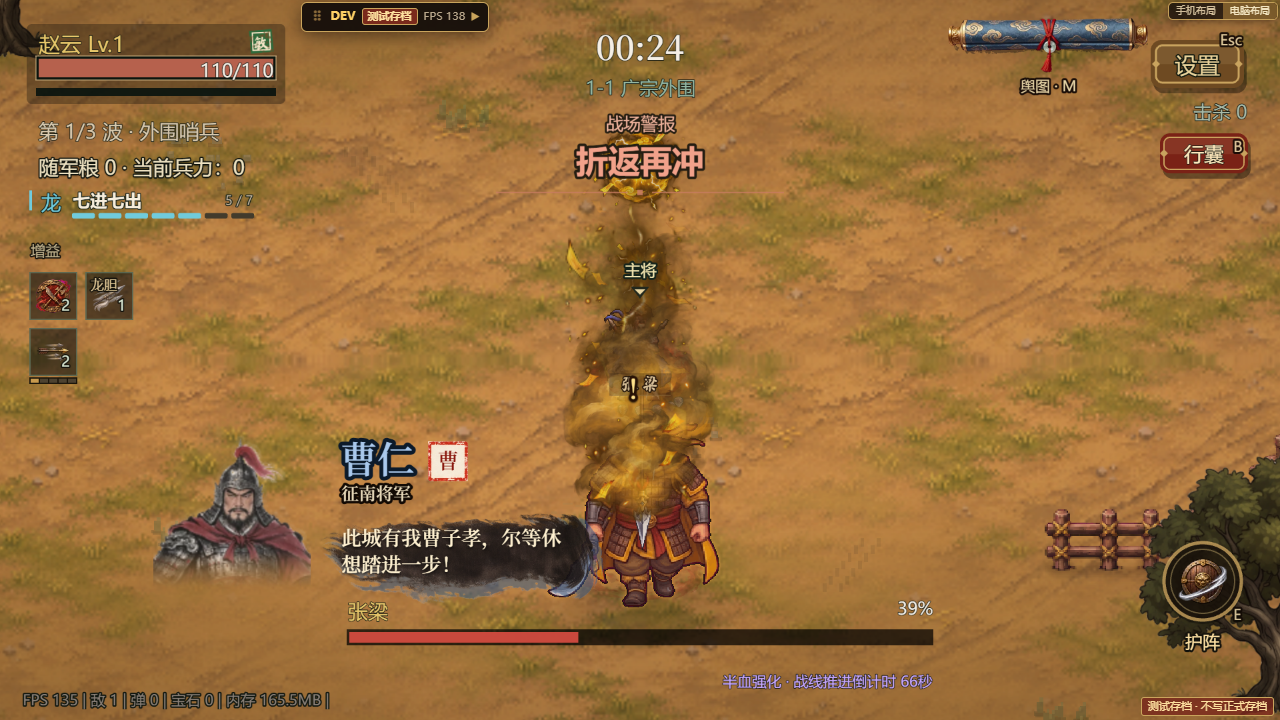
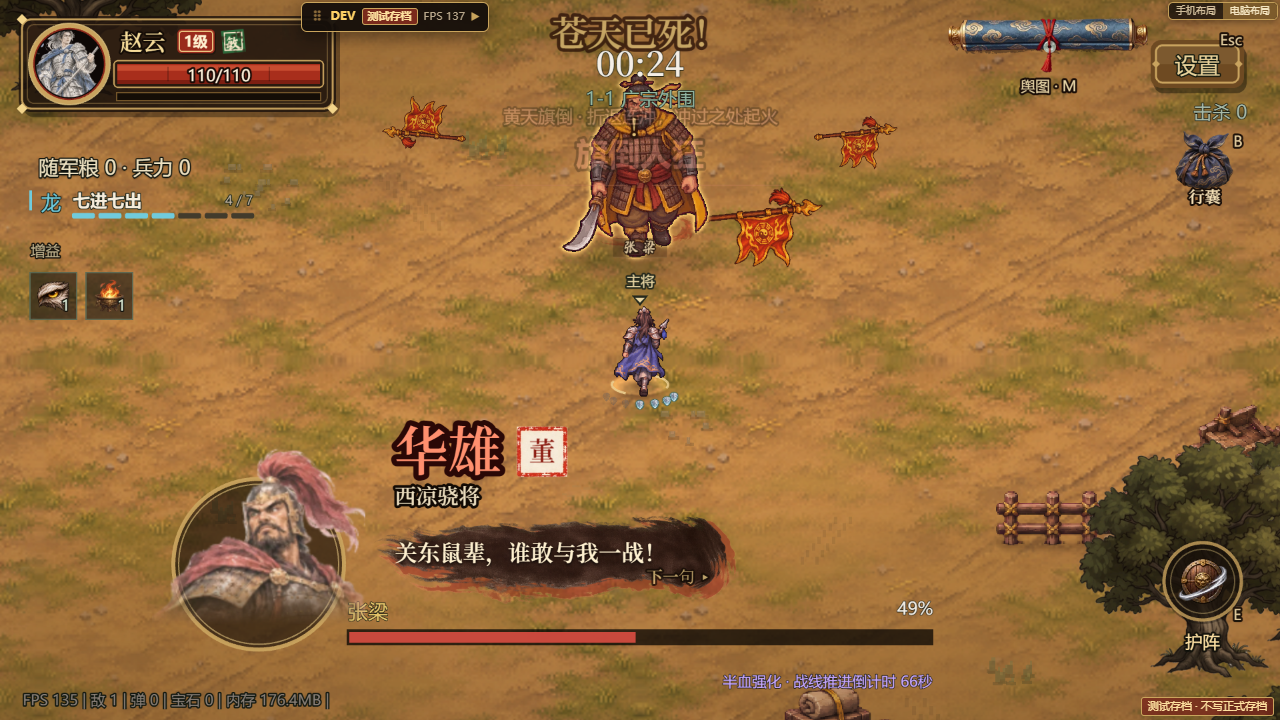
剧情对话卡打磨：战中台词逐字打出 + 下一句提示、首领登场大卡短停、关前军情对话排版 + 锦囊签（用户「剧情对话ui也可以改一下」）
- 战中台词卡：立绘下垫漆金圆托、名字我方金 / 敌方朱红、逐字打出（点卡片出全文）、排队时「下一句 ▸」、按字数延长停留；只一张不叠；不暂停
- 首领登场：大卡（立绘、名字、称号放大），停战斗约 1.5 秒后开打；说了就不再弹中间名号牌
- 关前军情：台词一次排开（圆形立绘 + 描金名字），提示做成朱漆「锦囊」签，只一个水墨「开战」按钮、跳过浅色；排不下退回翻页
- 中文后半角标点自动换全角；立绘头像左右渐隐
- test-story-barkcard 14/14；改前 / 改后对比图 assets/review/story-cards/

diff --git a/src/ui/StoryBarkCardStyles.ts b/src/ui/StoryBarkCardStyles.ts
@@ -53,7 +53,7 @@ const EXTRA_TITLES: Record<string, string> = { zhangliang: '人公将军', zhang
 export function titleOf(id: string | undefined): string { if (!id) return ''; return EXTRA_TITLES[id] ?? SURRENDER_DEFS.find(d => d.id === id)?.title ?? ''; }
 
 /** 头肩胸：从立绘取宽 64%、上 1%–40% 一块，画进小画布缓存成贴图（不用遮罩）；最下 22% 渐隐，像墨色化开 */
-function faceTexture(scene: Phaser.Scene, key: string, size: number): string | undefined {
+export function faceTexture(scene: Phaser.Scene, key: string, size: number): string | undefined {
   if (!scene.textures.exists(key)) return undefined;
   const tk = `barkface_${key}_${size}`; if (scene.textures.exists(tk)) return tk;
   const src = scene.textures.get(key).getSourceImage() as HTMLImageElement, can = scene.textures.createCanvas(tk, size, size); if (!can) return undefined;
@@ -61,45 +61,74 @@ function faceTexture(scene: Phaser.Scene, key: string, size: number): string | u
   g.drawImage(src, cx, cy, cw, ch, (size - dw) / 2, 0, dw, dh);
   // destination-in 会清掉填充区以外的像素：渐变要铺满整张（上 78% 全不透明、最下 22% 渐隐）
   const fade = g.createLinearGradient(0, 0, 0, size); fade.addColorStop(0, 'rgba(0,0,0,1)'); fade.addColorStop(.78, 'rgba(0,0,0,1)'); fade.addColorStop(1, 'rgba(0,0,0,0)');
-  g.globalCompositeOperation = 'destination-in'; g.fillStyle = fade; g.fillRect(0, 0, size, size); g.globalCompositeOperation = 'source-over';
+  g.globalCompositeOperation = 'destination-in'; g.fillStyle = fade; g.fillRect(0, 0, size, size);
+  // 2026-11-20：左右两侧也渐隐（立绘画面常常裁到两边，硬边很显眼）
+  const side = g.createLinearGradient(0, 0, size, 0); side.addColorStop(0, 'rgba(0,0,0,0)'); side.addColorStop(.14, 'rgba(0,0,0,1)'); side.addColorStop(.86, 'rgba(0,0,0,1)'); side.addColorStop(1, 'rgba(0,0,0,0)');
+  g.fillStyle = side; g.fillRect(0, 0, size, size); g.globalCompositeOperation = 'source-over';
   can.refresh(); return tk;
 }
 
-export interface StyledCard { root: Phaser.GameObjects.Container; w: number; h: number; x0: number; y0: number; off: number; onTick?: (t: number) => void }
+/** 中文全角标点：中文后面的半角 ! ? , : ; 换成全角（2026-11-20 剧情对话卡打磨）。 */
+export function cnPunct(v: string): string { return v.replace(/([一-鿿」』）])([!?,:;])/g, (_m, c: string, p: string) => c + ({ '!': '！', '?': '？', ',': '，', ':': '：', ';': '；' } as Record<string, string>)[p]); }
+/** 台词逐字打出的速度（字 / 秒）与读完后再停的时长（毫秒）。 */
+export const BARK_TYPE = { cps: 26, readMs: 1700 } as const;
+
+export interface StyledCard { root: Phaser.GameObjects.Container; w: number; h: number; x0: number; y0: number; off: number; onTick?: (t: number) => void; /** 逐字打完需要的毫秒（卡片据此延长停留） */ typeMs: number }
 interface In { side: 'left' | 'right'; name: string; text: string; portrait?: string; id?: string }
 const txt = (s: Phaser.Scene, x: number, y: number, v: string, size: number, color: string, extra: Phaser.Types.GameObjects.Text.TextStyle = {}): Phaser.GameObjects.Text =>
   s.add.text(x, y, v, { fontFamily: HEADING_FONT, fontSize: size + 'px', color, resolution: 2, ...extra }).setScrollFactor(0);
+/** 名字配色（2026-11-20）：我方金色、敌方朱红；阵营朱印照旧按势力。 */
+const NAME_COLOR = { ally: { light: '#f3d48a', dark: '#2a1a06' }, enemy: { light: '#ff8f6e', dark: '#2a0806' } } as const;
 
 /**
  * 电影感台词卡（游戏坐标，电脑布局 960 宽）：外侧立绘一栏、内侧文字一栏，台词不压立绘。
  * place 给了（电脑布局，2026-11-19 用户「剧情对话挪到左下角」）：不分敌我都放左下——左边 x = place.x、底边 = place.bottom，立绘在左栏、台词在右栏、从左滑入，宽收到 340；
  * 没给（手机）：敌方右、我方左（旧摆法）。阵营色 / 朱印 / 称号始终按说话人（side 是说话人的阵营）。
+ * 2026-11-20 打磨（用户「剧情对话ui也可以改一下」）：立绘下垫漆金圆托（头肩仍破出圆托上沿）、名字我方金 / 敌方朱红、台词逐字打出（点卡片直接出全文）、
+ * 后面还有句时右下角「下一句 ▸」；intro = 首领出场大卡（立绘、名字、称号都放大）。
  */
-export function buildCinematic(s: Phaser.Scene, l: In, W: number, margin: number, place?: { x: number; bottom: number }): StyledCard {
-  const ally = l.side === 'left', right = !place && !ally, f = factionOf(l.id, ally);
-  const w = place ? 340 : 372, PW = 124, gap = 10, colW = w - PW - gap, x0 = place ? place.x : right ? W - margin - w : margin;
+export function buildCinematic(s: Phaser.Scene, l: In, W: number, margin: number, place?: { x: number; bottom: number }, o: { intro?: boolean; more?: () => boolean } = {}): StyledCard {
+  const ally = l.side === 'left', right = !place && !ally, f = factionOf(l.id, ally), nc = ally ? NAME_COLOR.ally : NAME_COLOR.enemy, big = !!o.intro;
+  const w = big ? 440 : place ? 340 : 372, PW = big ? 164 : 124, gap = 10, colW = w - PW - gap, x0 = place ? place.x : right ? W - margin - w : margin;
   const cx0 = right ? 0 : PW + gap; // 文字栏左边
   const root = s.add.container(x0, 0).setScrollFactor(0);
   // 名字（大号标题字）+ 阵营朱印 + 称号
-  const tx = cx0 + 12, tw = colW - 30;
-  const name = txt(s, tx, 0, l.name, 28, f.light, { stroke: f.dark, strokeThickness: 6 }).setName('story-bark-card-name');
-  const seal = s.add.image(tx + name.width + 22, 18, 'barkui_seal').setDisplaySize(30, 30).setScrollFactor(0);
-  const sealT = txt(s, tx + name.width + 22, 19, f.seal, 16, '#8a1a10').setOrigin(.5);
-  const tt = txt(s, tx + 2, 34, titleOf(l.id) || (ally ? '义军' : ''), 13, '#eadcbd', { stroke: '#120a04', strokeThickness: 4 });
-  // 台词：在文字栏里换行；笔刷带只铺文字栏，高度跟着台词
-  const say = txt(s, tx + 4, 0, l.text, 15, '#fff1d0', { wordWrap: { width: tw, useAdvancedWrap: true }, lineSpacing: 2 }).setShadow(0, 2, '#000000', 4, false, true).setName('story-bark-card-text');
-  if (say.height > 66) say.setFontSize(13);
-  const sy = 56, sh = Math.max(52, say.height + 24), h = sy + sh, y0 = place ? place.bottom - h : 290;
+  const tx = cx0 + 12, tw = colW - 30, nameSize = big ? 40 : 28;
+  const name = txt(s, tx, big ? -10 : 0, l.name, nameSize, nc.light, { stroke: nc.dark, strokeThickness: big ? 8 : 6 }).setName('story-bark-card-name');
+  const sealSize = big ? 38 : 30, seal = s.add.image(tx + name.width + sealSize * .7, (big ? -10 : 0) + nameSize * .62, 'barkui_seal').setDisplaySize(sealSize, sealSize).setScrollFactor(0).setName('story-bark-card-seal');
+  const sealT = txt(s, seal.x, seal.y + 1, f.seal, big ? 20 : 16, '#8a1a10').setOrigin(.5);
+  const tt = txt(s, tx + 2, big ? 38 : 34, titleOf(l.id) || (ally ? '义军' : ''), big ? 16 : 13, '#eadcbd', { stroke: '#120a04', strokeThickness: 4 }).setName('story-bark-card-title');
+  // 台词：在文字栏里换行；笔刷带只铺文字栏，高度跟着台词。先用全文量高度，再清空逐字打出
+  const full = cnPunct(l.text), fs0 = big ? 17 : 15;
+  const say = txt(s, tx + 4, 0, full, fs0, '#fff1d0', { wordWrap: { width: tw, useAdvancedWrap: true }, lineSpacing: 3 }).setShadow(0, 2, '#000000', 4, false, true).setName('story-bark-card-text');
+  if (say.height > (big ? 80 : 66)) say.setFontSize(fs0 - 2);
+  const sy = big ? 62 : 56, sh = Math.max(big ? 60 : 52, say.height + 24), h = sy + sh, y0 = place ? place.bottom - h : 290;
   root.setY(y0);
-  say.setY(sy + (sh - say.height) / 2);
+  say.setY(sy + (sh - say.height) / 2).setFixedSize(0, say.height).setData('full', full).setText('');
   // 墨迹晕开（入场时在笔刷带后面放一遍，手绘 8 帧）
   const bloom = s.textures.exists('barkui_inkbloom') ? s.add.sprite(cx0 + colW / 2, sy + sh / 2, 'barkui_inkbloom', 0).setDisplaySize(colW * .95, sh * 2.2).setScrollFactor(0).setAlpha(.7).setName('story-bark-card-ink') : null;
   if (bloom) root.add(bloom);
   root.add(s.add.image(cx0 + colW / 2 + (right ? -4 : 4), sy + sh / 2 + 5, 'barkui_brush').setDisplaySize(colW + 6, sh + 6).setScrollFactor(0).setTintFill(f.color).setAlpha(.5).setFlipX(!right).setName('story-bark-card-faction'));
   root.add(s.add.image(cx0 + colW / 2, sy + sh / 2, 'barkui_brush').setDisplaySize(colW, sh).setScrollFactor(0).setAlpha(.86).setFlipX(!right));
-  // 立绘：外侧一栏，头肩胸完整，离屏幕边留余量；不跟文字 / 笔刷带重叠；顶边固定（长台词把笔刷带撑高时立绘不往下压到护阵按钮）
-  const fk = l.portrait ? faceTexture(s, l.portrait, 118) : undefined, fx = right ? w - PW / 2 - 6 : PW / 2 + 6;
-  if (fk) root.add(s.add.image(fx, -6, fk).setOrigin(.5, 0).setScrollFactor(0).setName('story-bark-card-portrait'));
+  // 立绘：外侧一栏；下垫一枚漆金圆托（暗底 + 金圈），头肩破出圆托上沿
+  const fsz = big ? 160 : 118, fk = l.portrait ? faceTexture(s, l.portrait, fsz) : undefined, fx = right ? w - PW / 2 - 6 : PW / 2 + 6, ry = big ? fsz * .62 : fsz * .6, rr = big ? 64 : 48;
+  const ring = s.add.graphics().setScrollFactor(0).setName('story-bark-card-ring');
+  ring.fillStyle(0x120b06, .62).fillCircle(fx, ry, rr).lineStyle(big ? 3 : 2.5, 0xc9a35e, .95).strokeCircle(fx, ry, rr).lineStyle(1, 0xf3d48a, .55).strokeCircle(fx, ry, rr - 4);
+  root.add(ring);
+  if (fk) root.add(s.add.image(fx, big ? -16 : -6, fk).setOrigin(.5, 0).setScrollFactor(0).setName('story-bark-card-portrait'));
   root.add([name, tt, seal, sealT, say]);
-  return { root, w, h, x0, y0, off: right ? 40 : -40, onTick: t => { if (bloom?.active) { const k = Math.min(1, t / 380); bloom.setFrame(Math.min(7, Math.floor(k * 8))).setAlpha(.7 * (t < 380 ? 1 : Math.max(0, 1 - (t - 380) / 300))); } } };
+  // 后面还有句：右下角「下一句 ▸」（闪一闪）
+  const nextHint = o.more ? txt(s, cx0 + colW - 10, h - 4, '下一句 ▸', 12, '#f3d48a', { stroke: '#120a04', strokeThickness: 3 }).setOrigin(1, 1).setName('story-bark-card-next') : null;
+  if (nextHint) root.add(nextHint);
+  // 点卡片（文字栏）直接出全文
+  let shownAll = false;
+  const hit = s.add.rectangle(cx0 + colW / 2, h / 2, colW, h, 0, .001).setScrollFactor(0).setInteractive({ useHandCursor: true }).setName('story-bark-card-hit');
+  hit.on('pointerdown', () => { shownAll = true; say.setText(full); });
+  root.add(hit);
+  const typeMs = [...full].length / BARK_TYPE.cps * 1000;
+  return { root, w, h, x0, y0, off: right ? 40 : -40, typeMs, onTick: t => {
+    if (bloom?.active) { const k = Math.min(1, t / 380); bloom.setFrame(Math.min(7, Math.floor(k * 8))).setAlpha(.7 * (t < 380 ? 1 : Math.max(0, 1 - (t - 380) / 300))); }
+    if (!shownAll && say.active) { const n = Math.min([...full].length, Math.floor(Math.max(0, t - 180) / 1000 * BARK_TYPE.cps)); const cur = [...full].slice(0, n).join(''); if (say.text !== cur) say.setText(cur); if (n >= [...full].length) shownAll = true; }
+    if (nextHint?.active) nextHint.setVisible(!!o.more?.()).setAlpha(.55 + .45 * Math.abs(Math.sin(t / 380)));
+  } };
 }

diff --git a/src/ui/StoryScroll.ts b/src/ui/StoryScroll.ts
@@ -1,6 +1,7 @@
 import Phaser from 'phaser';
 import { DEPTH, FONT, HEADING_FONT } from '../config';
 import { inkPlate } from './HomeCommand';
+import { cnPunct } from './StoryBarkCardStyles';
 
 /**
  * 剧情卷轴（漆金卷轴同款，见 ChapterVictoryNotice）：逐句对白，点一下翻下一句，最后一页显示奖励和确认按钮。
@@ -20,6 +21,24 @@ export interface StoryScrollOptions {
   choices?: readonly string[]; onChoice?: (index: number) => void;
   /** 战斗中途的对白（2026-11-19 用户：「对话框想半透明」）：底下战场只压暗一点，漆底半透明、边缘渐淡，不铺营帐横幅；描金边、立绘、文字保持不透明并加阴影。章头 / 军情等整屏剧情不用。 */
   translucent?: boolean;
+  /**
+   * 对话排版（2026-11-20 用户「剧情对话ui也可以改一下」，关前军情用）：所有台词一次排开——左边圆形立绘、描金名字、台词；tip 句做成一条朱漆「锦囊」签；
+   * 只有一个水墨主按钮（confirm，如「开战」），「跳过」是浅色字。排不下（超出屏高）时退回逐句翻页。只在电脑布局生效。
+   */
+  dialogue?: boolean;
+}
+/** 对话排版尺寸（电脑布局，游戏坐标） */
+const DL = { face: 58, pad: 44, gapX: 16, gap: 10, size: 17 } as const;
+/** 圆形头像贴图（取立绘头肩，裁成圆；缓存为 briefface_<key>） */
+function roundFace(scene: Phaser.Scene, key: string, size: number): string | undefined {
+  if (!scene.textures.exists(key)) return undefined;
+  const tk = `briefface_${key}_${size}`; if (scene.textures.exists(tk)) return tk;
+  const src = scene.textures.get(key).getSourceImage() as HTMLImageElement, can = scene.textures.createCanvas(tk, size, size); if (!can) return undefined;
+  const g = can.getContext(), cx = src.width * .2, cy = src.height * .02, cw = src.width * .6, ch = src.height * .3, k = Math.max(size / cw, size / ch);
+  g.save(); g.beginPath(); g.arc(size / 2, size / 2, size / 2 - 1, 0, Math.PI * 2); g.clip();
+  g.fillStyle = '#2a1d12'; g.fillRect(0, 0, size, size);
+  g.drawImage(src, cx, cy, cw, ch, (size - cw * k) / 2, 0, cw * k, ch * k); g.restore();
+  can.refresh(); return tk;
 }
 
 const GOLD = 0xc9a35e, GOLD_HI = 0xf3d48a, LACQUER = 0x1b120b;
@@ -30,8 +49,13 @@ export function storyScroll(scene: Phaser.Scene, W: number, H: number, desk: boo
     fontFamily: heading ? HEADING_FONT : FONT, fontSize: size + 'px', color, resolution: 2,
   }).setScrollFactor(0).setShadow(0, 2, '#000000', o.translucent ? 5 : 0, false, !!o.translucent);
   const art = !!o.illustration && scene.textures.exists(o.illustration), extra = art ? (desk ? 90 : 90) : 0;
-  const pw = desk ? 640 : Math.min(500, W - 32), ph = (desk ? 420 : 560) + extra, x0 = (W - pw) / 2, y0 = Math.round((H - ph) / 2), cx = W / 2;
-  const bannerH = (desk ? 120 : 160) + extra;
+  const pw = desk ? 640 : Math.min(500, W - 32), bannerH = (desk ? 120 : 160) + extra;
+  // 对话排版：先量每行高度，排得下就整张卷轴加高到刚好装下
+  const dTw = pw - DL.pad * 2 - DL.face - DL.gapX;
+  const dMeasure = (l: StoryLine): number => { const t = scene.add.text(0, 0, cnPunct(l.text), { fontFamily: FONT, fontSize: DL.size + 'px', lineSpacing: 5, wordWrap: { width: dTw, useAdvancedWrap: true } }); const h = t.height; t.destroy(); return l.tip ? h + 22 : Math.max(DL.face + 4, h + 30); };
+  const dHeights = o.dialogue && desk ? o.lines.map(dMeasure) : [], dRowsH = dHeights.reduce((a, b) => a + b + DL.gap, 0), dNeed = bannerH + 34 + dRowsH + 74;
+  const dlg = dHeights.length > 0 && dNeed <= H - 12;
+  const ph = dlg ? Math.max((desk ? 420 : 560) + extra, dNeed) : (desk ? 420 : 560) + extra, x0 = (W - pw) / 2, y0 = Math.round((H - ph) / 2), cx = W / 2;
 
   const tl = !!o.translucent;
   root.add(scene.add.rectangle(W / 2, H / 2, W, H, 0x0c0805, tl ? .3 : .84).setScrollFactor(0).setInteractive());
@@ -82,6 +106,37 @@ export function storyScroll(scene: Phaser.Scene, W: number, H: number, desk: boo
   const page = text(x0 + pw - (desk ? 40 : 24), y0 + ph - (desk ? 92 : 108), '', desk ? 13 : 14, '#8d7d60').setOrigin(1, .5);
   const reward = text(cx, y0 + ph - (desk ? 92 : 108), o.reward, desk ? 15 : 16, '#f6dc9a').setOrigin(.5).setVisible(false).setName(o.name + '-reward');
   root.add([who, say, page, reward]);
+  if (dlg) {
+    root.setData('dialogue', true);
+    let ry = y0 + bannerH + 34;
+    o.lines.forEach((l, k) => {
+      const rh = dHeights[k], lx = x0 + DL.pad, tx2 = lx + DL.face + DL.gapX, row = o.name + '-row-' + k;
+      if (l.tip) {
+        // 锦囊签：朱漆长条 + 描金边 + 左头一枚「锦囊」竖印
+        const g = scene.add.graphics().setScrollFactor(0).setName(row);
+        g.fillStyle(0x000000, .35).fillRoundedRect(lx + 2, ry + 3, pw - DL.pad * 2, rh, 6).fillStyle(0x6e1a12, .95).fillRoundedRect(lx, ry, pw - DL.pad * 2, rh, 6)
+          .lineStyle(1.5, GOLD, .9).strokeRoundedRect(lx + 3, ry + 3, pw - DL.pad * 2 - 6, rh - 6, 4)
+          .fillStyle(0xf3d48a, .95).fillRoundedRect(lx + 8, ry + rh / 2 - 22, 40, 44, 4).lineStyle(1.5, 0x8a1a10, 1).strokeRoundedRect(lx + 11, ry + rh / 2 - 19, 34, 38, 3);
+        const seal = text(lx + 28, ry + rh / 2, '锦\n囊', 15, '#8a1a10', true).setOrigin(.5).setAlign('center').setLineSpacing(-3).setShadow(0, 0, '#000', 0);
+        const t = text(tx2, ry + rh / 2, cnPunct(l.text), DL.size, '#ffe3b0').setOrigin(0, .5).setWordWrapWidth(dTw, true).setLineSpacing(5).setName(row + '-tip');
+        root.add([g, seal, t]);
+      } else {
+        // 圆形立绘（漆金圈）或朱红名字章
+        const fcx = lx + DL.face / 2, fcy = ry + DL.face / 2 + 2, ring = scene.add.graphics().setScrollFactor(0).setName(row);
+        ring.fillStyle(0x120b06, .9).fillCircle(fcx, fcy, DL.face / 2 + 2);
+        root.add(ring);
+        const fk = l.portrait ? roundFace(scene, l.portrait, DL.face * 2) : undefined;
+        if (fk) root.add(scene.add.image(fcx, fcy, fk).setDisplaySize(DL.face, DL.face).setScrollFactor(0).setName(row + '-face'));
+        else if (l.who || l.seal) { ring.fillStyle(0x9a2a1a, .95).fillCircle(fcx, fcy, DL.face / 2 - 3); root.add(text(fcx, fcy, [...(l.seal ?? l.who ?? '')][0] ?? '', 24, '#fff1dc', true).setOrigin(.5)); }
+        const rg = scene.add.graphics().setScrollFactor(0); rg.lineStyle(2.5, GOLD, .95).strokeCircle(fcx, fcy, DL.face / 2 + 2).lineStyle(1, GOLD_HI, .5).strokeCircle(fcx, fcy, DL.face / 2 - 2); root.add(rg);
+        if (!l.who) ring.setVisible(false), rg.setVisible(false);
+        const nm = l.who ? text(tx2, ry + 2, l.who, 16, '#f3d48a', true).setStroke('#2a170b', 4).setName(row + '-who') : null;
+        const t = text(tx2, ry + (l.who ? 26 : 8), cnPunct(l.text), DL.size, l.who ? '#eadcbd' : '#cdb88c').setWordWrapWidth(dTw, true).setLineSpacing(5).setName(row + '-say');
+        root.add(nm ? [nm, t] : [t]);
+      }
+      ry += rh + DL.gap;
+    });
+  }
 
   // 按钮：前几页是「继续」，最后一页是确认
   const bw = desk ? 260 : 300, bh = desk ? 48 : 58, by = y0 + ph - (desk ? 46 : 54);
@@ -101,14 +156,17 @@ export function storyScroll(scene: Phaser.Scene, W: number, H: number, desk: boo
   const hit = scene.add.rectangle(cx, by, bw, bh, 0, 0).setScrollFactor(0).setInteractive({ useHandCursor: true }).setName(o.name + '-next');
   root.add(plate ? [plate, label, hit] : [btn, label, hit]);
 
-  let i = 0;
+  let i = dlg ? o.lines.length - 1 : 0; // 对话排版：一页排完，直接是最后一页（开战）
   const show = () => {
     const l = o.lines[i], last = i === o.lines.length - 1;
     const named = !!l.who || !!l.tip;
-    who.setText(l.tip ? '提示' : l.who ? l.who + '：' : '').setColor(l.tip ? '#9fd59a' : l.who ? '#f0b48a' : '#b9a57a');
-    say.setText(l.text).setY(ty + (named ? (desk ? 30 : 34) : 0)).setColor(l.tip ? '#cfe8c4' : l.who ? '#eadcbd' : '#cdb88c');
-    if (cast) showFace(l);
-    page.setText(`${i + 1} / ${o.lines.length}`).setVisible(!last);
+    if (dlg) { who.setVisible(false); say.setVisible(false); face.setVisible(false); sealBox.setVisible(false); sealText.setVisible(false); page.setVisible(false); }
+    else {
+      who.setText(l.tip ? '锦囊' : l.who ? l.who + '：' : '').setColor(l.tip ? '#ffb48a' : l.who ? '#f0b48a' : '#b9a57a');
+      say.setText(cnPunct(l.text)).setY(ty + (named ? (desk ? 30 : 34) : 0)).setColor(l.tip ? '#ffe3b0' : l.who ? '#eadcbd' : '#cdb88c');
+      if (cast) showFace(l);
+      page.setText(`${i + 1} / ${o.lines.length}`).setVisible(!last);
+    }
     reward.setVisible(last); label.setText(last ? o.confirm : '继续 ▸');
     hit.setName(last ? o.confirmName : o.name + '-next');
     // 抉择：最后一页把确认按钮换成选项

diff --git a/src/systems/Story.ts b/src/systems/Story.ts
@@ -91,7 +91,7 @@ export function playStoryScroll(scene: Phaser.Scene, node: StoryNode, lines: Sto
     if (scene.sys.settings.status >= Phaser.Scenes.SHUTDOWN) return; // 场景已关（create 期间 isActive 仍为 false，不能用它判断）
     const finish = (): void => { markStorySeen(node.id); done(); };
     storyScroll(scene, GAME_WIDTH, GAME_HEIGHT, IS_DESKTOP, { name: 'story-' + node.id.replace(/\./g, '-'), confirmName: 'story-confirm', kicker: node.kicker ?? '', title: node.title ?? '',
-      lines: all, reward: '', confirm, background: 'rest_camp', illustration: nodeIllustration(node), onDone: finish, skip: finish, translucent: opts?.translucent });
+      lines: all, reward: '', confirm, background: 'rest_camp', illustration: nodeIllustration(node), onDone: finish, skip: finish, translucent: opts?.translucent, dialogue: node.type === 'stageBrief' });
   }, nodeIllustration(node));
 }
 
@@ -204,7 +204,7 @@ export class StoryDirector {
   }
   /** 首领登场 / 二阶段 / 倒下：大字台词（每次都说）。 */
   /** 返回是否说了（说了的话 GameScene 把主将的登场 / 倒下台词往后挪，免得一句顶掉另一句）。 */
-  bossIntro(target: BarkTarget): boolean { const sn = this.stageNodes(), id = this.h.bossId?.(), n = (id && sn?.bossIntros?.[id]) || sn?.bossIntro; return n ? this.bark(n, target) : false; }
+  bossIntro(target: BarkTarget): boolean { const sn = this.stageNodes(), id = this.h.bossId?.(), n = (id && sn?.bossIntros?.[id]) || sn?.bossIntro; return n ? this.bark(n, target, true) : false; }
   /** 双首领关：节点写了 boss 时只对这位首领说（bossId 来自 boss-phase 事件）。 */
   bossPhase(target: BarkTarget, bossId?: string): boolean { const sn = this.stageNodes(), id = this.h.bossId?.(), byId = id ? sn?.bossPhases?.[id] : undefined; if (byId) return this.bark(byId, target); const n = sn?.bossPhase; return n && (!n.boss || !bossId || n.boss === bossId) ? this.bark(n, target) : false; }
   /** bossId：双首领关按首领取 bossFalls[id]（没有时不说）。 */
@@ -227,19 +227,22 @@ export class StoryDirector {
   line(id: string, target: BarkTarget): boolean {
     const n = this.chapter?.barks?.find(b => b.id === id); return n ? this.bark(n, target) : false;
   }
-  private bark(node: StoryNode, target: BarkTarget): boolean {
+  /** intro：首领登场——第一句出大卡并短暂停顿战斗（2026-11-20） */
+  private bark(node: StoryNode, target: BarkTarget, intro = false): boolean {
     if (!storyWanted('boss')) return false;
     const lines = resolveLines(node, this.h.ctx); if (!lines.length) return false;
     this.played.push(node.id);
     // 2026-11-18 夜：有说话人的句子出侧边立绘卡（我方左、敌方右，不暂停），头顶只冒一个「！」指明是谁在说，不重复台词；旁白句照旧头顶大字
-    const say = (l: StoryLine): void => {
+    const say = (l: StoryLine, i: number): void => {
       const s = speaker(l.who, this.h.ctx);
       if (!l.who) { storyBark(this.h.scene, target, s.name ?? '', l.text); return; }
       const id = l.who === '{lord}' ? this.h.ctx.lord : l.who, ally = l.who === '{lord}' || !!heroName(id);
-      showBarkCard(this.h.scene, { side: ally ? 'left' : 'right', name: s.name ?? id, text: l.text, portrait: s.portrait, id });
-      storyBark(this.h.scene, target, '', '！');
+      const big = intro && i === 0;
+      showBarkCard(this.h.scene, { side: ally ? 'left' : 'right', name: s.name ?? id, text: l.text, portrait: s.portrait, id, intro: big, pause: big ? () => this.h.pause?.() : undefined, resume: big ? () => this.h.resume?.() : undefined });
+      if (i === 0) storyBark(this.h.scene, target, '', '！');
     };
-    lines.forEach((l, i) => { if (i === 0) say(l); else this.h.scene.time.delayedCall(i * 1400, () => say(l)); }); // 第一句立即说（不受计时器暂停影响）
+    // 2026-11-20：几句一起排进台词卡队列（一张一张出，卡上有「下一句 ▸」）；旁白句仍按 1.4 秒错开冒头顶大字
+    lines.forEach((l, i) => { if (i === 0 || l.who) say(l, i); else this.h.scene.time.delayedCall(i * 1400, () => say(l, i)); });
     return true;
   }
   /**

diff --git a/src/ui/StoryBarkCard.ts b/src/ui/StoryBarkCard.ts
@@ -12,9 +12,12 @@ import Phaser from 'phaser';
 import { DEPTH, HEADING_FONT, GAME_WIDTH, IS_DESKTOP } from '../config';
 import { LQ, lqPanel, lqDiamond } from './LacquerKit';
 import { storyArtFile } from '../data/story/art';
-import { loadBarkUi, barkUiReady, buildCinematic } from './StoryBarkCardStyles';
+import { loadBarkUi, barkUiReady, buildCinematic, BARK_TYPE } from './StoryBarkCardStyles';
 
-export interface BarkCardLine { side: 'left' | 'right'; name: string; text: string; portrait?: string; /** 说话人 id（设计稿 A / B / C 取阵营色与称号用） */ id?: string }
+export interface BarkCardLine { side: 'left' | 'right'; name: string; text: string; portrait?: string; /** 说话人 id（设计稿 A / B / C 取阵营色与称号用） */ id?: string;
+  /** 首领出场大卡（2026-11-20）：立绘与名号放大；给了 pause / resume 时出卡先停战斗 INTRO_PAUSE 毫秒再开打 */ intro?: boolean; pause?: () => void; resume?: () => void }
+/** 首领出场大卡停顿战斗的毫秒（真实时钟） */
+export const INTRO_PAUSE = 1500;
 /** 卡片尺寸与时长（毫秒）；top 是卡片顶边的 y（游戏坐标：电脑布局 960 宽，显示时放大到 1280×720；右边夹在军令面板（底 ≈271）与护阵按钮（顶 ≈405）之间，左边在增益图标（底 ≈290）下）。 */
 // 2026-11-19 用户「用药和军令重叠了」：右边的卡让开最右一列圆钮（用药 / 加点 / 护阵，x ≥ 864）——电脑版右缘留 rightClear
 export const BARK_CARD = { w: 330, h: 100, face: 86, hold: 2700, slide: 260, gap: 140, top: { right: 290, left: 300 }, margin: 10, rightClear: 104 } as const;
@@ -102,16 +105,22 @@ function build(scene: Phaser.Scene, line: BarkCardLine, done: () => void): void 
 /** 电影感台词卡（ui/StoryBarkCardStyles.ts） */
 function buildStyled(scene: Phaser.Scene, line: BarkCardLine, done: () => void): void {
   if (scene.sys.settings.status >= Phaser.Scenes.SHUTDOWN) { done(); return; }
-  const card = buildCinematic(scene, line, GAME_WIDTH, sideMargin(line.side), IS_DESKTOP ? BARK_CORNER : undefined);
+  const st = scene.data.get(STATE_KEY) as CardState | undefined, more = (): boolean => !!st && st.queue.length > 0;
+  const card = buildCinematic(scene, line, GAME_WIDTH, sideMargin(line.side), IS_DESKTOP ? BARK_CORNER : undefined, { intro: line.intro, more });
   const root = card.root.setDepth(DEPTH.overlay - 8).setName('story-bark-card');
   root.setData('side', line.side).setData('name', line.name).setData('text', line.text).setData('style', 'cinematic');
   if (line.portrait && scene.textures.exists(line.portrait)) root.setData('portrait', line.portrait);
-  animate(scene, root, card.x0, card.off, card.onTick, done);
+  root.setData('intro', !!line.intro);
+  // 逐字打完再留 readMs 读；首领出场大卡多停一会
+  const hold = Math.max(BARK_CARD.hold, card.typeMs + BARK_TYPE.readMs + 180) + (line.intro ? 600 : 0);
+  let resumed = !line.pause; if (line.pause) line.pause();
+  const resume = (): void => { if (!resumed) { resumed = true; line.resume?.(); } };
+  animate(scene, root, card.x0, card.off, t => { card.onTick?.(t); root.setData('more', more()); if (t >= INTRO_PAUSE) resume(); }, () => { resume(); done(); }, hold);
 }
 
 /** 滑入 → 停 → 滑出（真实时钟，不受战斗暂停影响）；onTick 做入场动画（墨迹晕开）。 */
-function animate(scene: Phaser.Scene, root: Phaser.GameObjects.Container, x0: number, off: number, onTick: ((t: number) => void) | undefined, done: () => void): void {
-  const C = BARK_CARD, t0 = performance.now(), total = C.slide * 2 + C.hold;
+function animate(scene: Phaser.Scene, root: Phaser.GameObjects.Container, x0: number, off: number, onTick: ((t: number) => void) | undefined, done: () => void, hold: number = BARK_CARD.hold): void {
+  const C = { slide: BARK_CARD.slide, hold }, t0 = performance.now(), total = C.slide * 2 + C.hold;
   const ease = (k: number): number => 1 - Math.pow(1 - k, 3);
   root.setX(x0 + off).setAlpha(0);
   const tick = (): void => {

diff --git a/src/scenes/GameScene.ts b/src/scenes/GameScene.ts
@@ -1668,9 +1668,11 @@ export class GameScene extends Phaser.Scene {
     // 首领出场：专属锣鼓出场段 + 主题曲（data/bossMusic.ts），并显示名号标题（不暂停战斗）
     const profile = bossProfile(this.chapter.bossName);
     this.music.setBoss(profile);
-    this.announceBoss(profile.title, this.chapter.bossName);
     this.presence?.entrance(boss);
-    this.lordBossBark('bossAppear', !!this.storyDir?.bossIntro(boss.sprite)); // 剧情：首领登场大字台词；主将（HeroBark）接一句
+    // 剧情：首领登场大卡（立绘 + 名号，短暂停顿）；说了就不再弹中间的名号牌，免得名字出两遍（2026-11-20）
+    const introSpoke = !!this.storyDir?.bossIntro(boss.sprite);
+    if (!introSpoke) this.announceBoss(profile.title, this.chapter.bossName);
+    this.lordBossBark('bossAppear', introSpoke); // 主将（HeroBark）接一句
   }
 
   /** 首领名号标题：画面上部一道短墨痕，墨上名号小字 + 名字，约 2.6 秒淡出；不拦截点击、不暂停。
